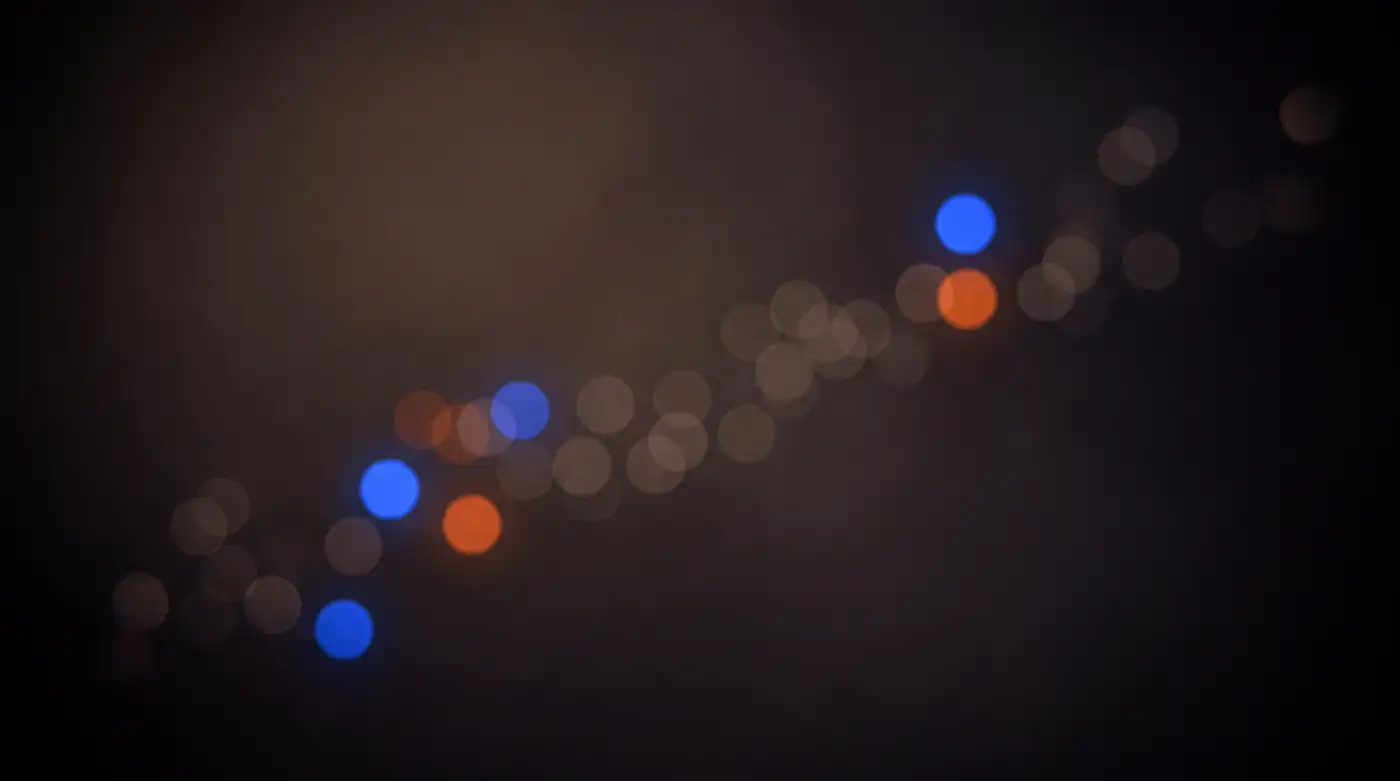
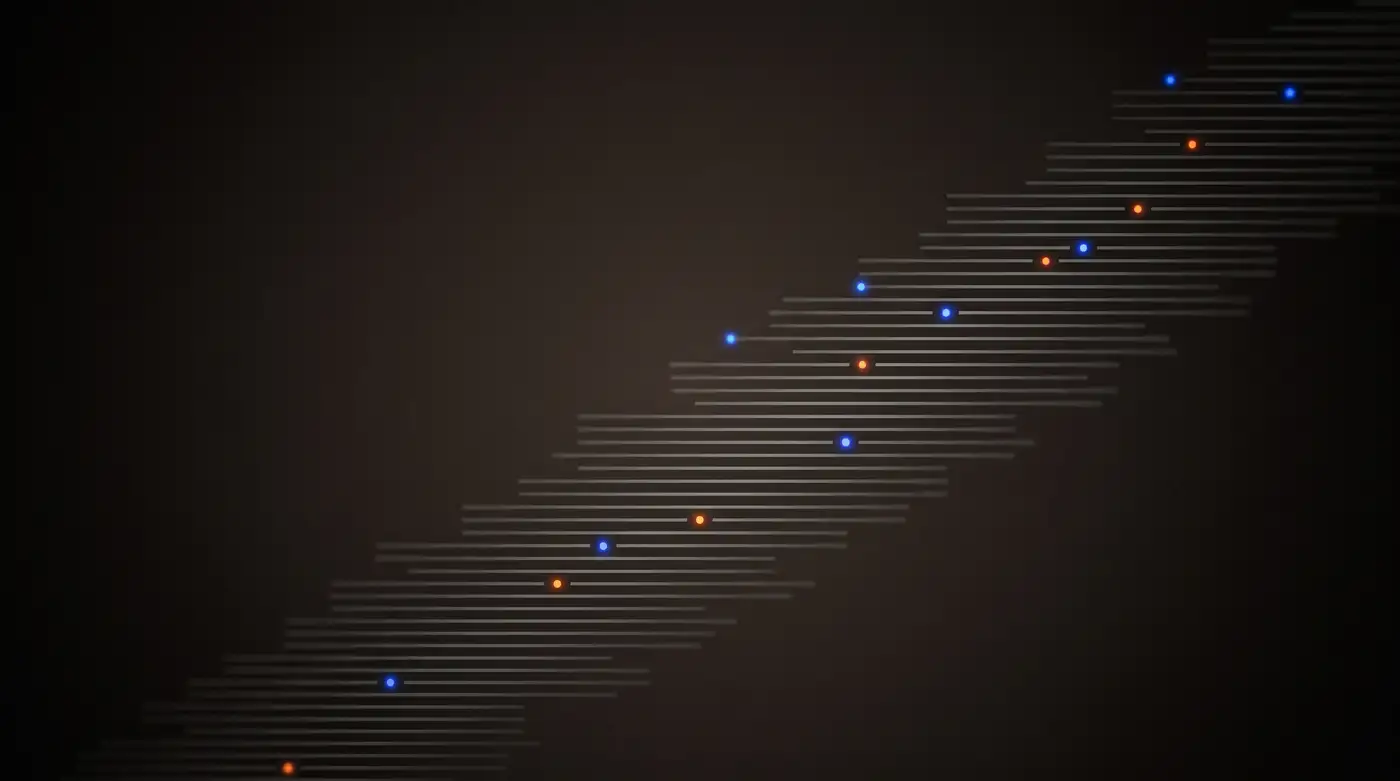
Replace the hero plate with the key-schedule regeneration
Swaps public/hero-deep-field.webp for a plate that states the concept as
rows of a cipher block stacked on a lower-left to upper-right diagonal,
rather than as drifting bokeh points. 1400x781 WebP q60, 9.0 KB, same
downscale and encode settings as the plate it replaces.

Drops the hero image opacity from 40% to 20%. Crisp lines peak far brighter
than soft bokeh: in the headline zone the new plate is fractionally darker
on average (mean L 0.179 vs 0.194) but its peak is nearly double (0.857 vs
0.480), and contrast is governed by the brightest pixel behind a glyph. At
40% the worst case fell to 5.67:1 headline, 1.84:1 dimmed second line and
2.48:1 body, putting the second line under the 3:1 large text requires. At
20% the three runs measure 10.82:1, 3.52:1 and 4.75:1, at or above the
9.86 / 3.20 / 4.32 the previous plate held. Those are the conservative
bound, taken with the radial scrim discounted entirely.

Records the measurements and the reasoning in the component comment and in
docs/design/STATUS.md so the opacity is not raised back without a re-measure.

diff --git a/src/components/encryptor-tool.tsx b/src/components/encryptor-tool.tsx
@@ -4134,6 +4134,16 @@ export function EncryptorTool() {
               plate washed over the top-left corner of the workbench card below
               it. Negative pulls it behind the flow while still leaving it above
               the page background.
+
+              opacity-20, not the 40 the bokeh plate ran at. This plate states
+              its key schedule as crisp lines rather than soft bokeh, so its
+              peak luminance under the headline is nearly double (0.86 against
+              0.48) even though it is fractionally darker on average — and
+              contrast is set by the brightest pixel behind a glyph, not the
+              mean. At 40 the worst case fell to 1.84:1 on "Trust nothing",
+              under the 3:1 that large text needs. 20 puts every run back at or
+              above where the bokeh plate measured. Re-measure before raising
+              it; the mean is not the number that matters here.
             */}
             <div
               aria-hidden="true"
@@ -4144,7 +4154,7 @@ export function EncryptorTool() {
                 alt=""
                 aria-hidden="true"
                 decoding="async"
-                className="h-full w-full object-cover opacity-40 [mask-image:radial-gradient(106%_68%_at_50%_36%,#000_22%,transparent_70%)]"
+                className="h-full w-full object-cover opacity-20 [mask-image:radial-gradient(106%_68%_at_50%_36%,#000_22%,transparent_70%)]"
               />
               {/* A canvas scrim under the words themselves. The plate's bokeh
                   band runs diagonally through the middle of the frame, which is

diff --git a/docs/design/STATUS.md b/docs/design/STATUS.md
@@ -17,30 +17,46 @@ the binding tokens. This file holds the choices and the loose ends.
   a public repository. That last clause is the requirement, not a bonus: it is
   what Satoshi failed. See "Loose ends" for the licence reasoning, and
   `DESIGN-SYSTEM.md § Type` for the test any future face has to pass.
-- **Hero background**: "Deep Field" — sparse blue/ember bokeh drifting in a
-  diagonal band over warm charcoal. **Shipped** as
-  `public/hero-deep-field.webp` (1400×781, 7.5 KB).
+- **Hero background**: "Deep Field" — a sparse field of fine luminous line
+  runs, like rows of a cipher block, stacked along a lower-left to upper-right
+  diagonal over warm charcoal, with blue and ember nodes. **Shipped** as
+  `public/hero-deep-field.webp` (1400×781, 9.0 KB).
 
-  It is a regeneration of the concept, not the plate originally chosen. The
-  first pick was a 2752×1536 PNG on the Higgsfield CDN, and that host is
-  refused by the network policy of a sealed container — generating a new one
-  through the MCP server worked, but its result URL is on the same blocked
-  host, so the bytes came back through the Higgsfield sandbox rather than by
-  fetching them here. Prompt and settings, so it can be reproduced or
-  re-rolled: `nano_banana_pro`, 16:9, 4k, the brief in
+  It replaces the bokeh plate that held this slot, and states the concept as a
+  key schedule rather than as drifting points. Reaching it took two passes: the
+  first read as formless and let a haze bloom off the right edge, and the
+  correction for that overshot into crisp corner-to-corner geometry. The
+  shipped plate is the second pass. Prompt and settings, so it can be
+  reproduced or re-rolled: `nano_banana_pro`, 16:9, 4k, the brief in
   `DESIGN-SYSTEM.md § Imagery` written out longhand — warm near-black ground
-  with a taupe undertone, twenty to thirty widely spaced bokeh points on a
-  lower-left to upper-right diagonal, a handful `#0447FF`, a handful
-  `#FF4704`, the rest dim warm grey, darkest at the left/right/bottom edges,
-  no text or subject of any kind.
+  with a taupe undertone, fine horizontal runs of varying length stacked on a
+  lower-left to upper-right diagonal band, a handful of nodes `#0447FF`, a
+  handful `#FF4704`, the rest dim cool-neutral grey, darkest at the
+  left/right/bottom edges, no text or subject of any kind.
 
-  Downscaled to 1400px and WebP q60 deliberately: the plate is soft bokeh with
-  no fine detail, so it survives the compression intact and 22 MB of PNG in a
-  repository that promises reproducible builds would be 22 MB nobody can
-  diff. Mounted behind the hero only, at 40% with a radial canvas scrim under
-  the text and a gradient to flat canvas before the workbench. Worst measured
-  contrast over it, per glyph run: 15.2:1 for the headline, 4.8:1 for the
-  dimmed second line (large text, needs 3), 7.0:1 for the body.
+  The Higgsfield CDN host (`d8j0ntlcm91z4.cloudfront.net`) is still refused by
+  the network policy of a sealed container, so the bytes cannot be fetched from
+  a session; they arrived as a chat attachment and were converted here.
+  `.claude/settings.json` allowlists the host for the sandbox, which does not
+  by itself lift the egress policy above it.
+
+  Downscaled to 1400px and WebP q60 deliberately: 22 MB of PNG in a repository
+  that promises reproducible builds would be 22 MB nobody can diff. Mounted
+  behind the hero only, at **20%** with a radial canvas scrim under the text
+  and a gradient to flat canvas before the workbench.
+
+  The opacity is not the 40% the bokeh plate ran at, and the reason is the
+  reason this plate is different: crisp lines peak far brighter than soft
+  bokeh. In the headline zone this plate is fractionally *darker* on average
+  (mean L 0.179 against 0.194) but its peak is nearly double (0.857 against
+  0.480), and contrast is set by the brightest pixel behind a glyph, not the
+  mean. Composited at 40% over canvas the worst case fell to 5.67:1 headline,
+  1.84:1 dimmed second line, 2.48:1 body — the second line under the 3:1 that
+  large text requires. At 20% every run is back at or above where the bokeh
+  plate sat: 10.82:1, 3.52:1, 4.75:1 against its 9.86 / 3.20 / 4.32. Those
+  figures are the conservative bound — text over plate-over-canvas with the
+  scrim discounted entirely — so the on-page numbers are better. Re-measure
+  before raising the opacity; the mean is not the number that matters.
 
   Runners-up from the original set, if a re-pick is ever wanted (host
   `d8j0ntlcm91z4.cloudfront.net`, path prefix
